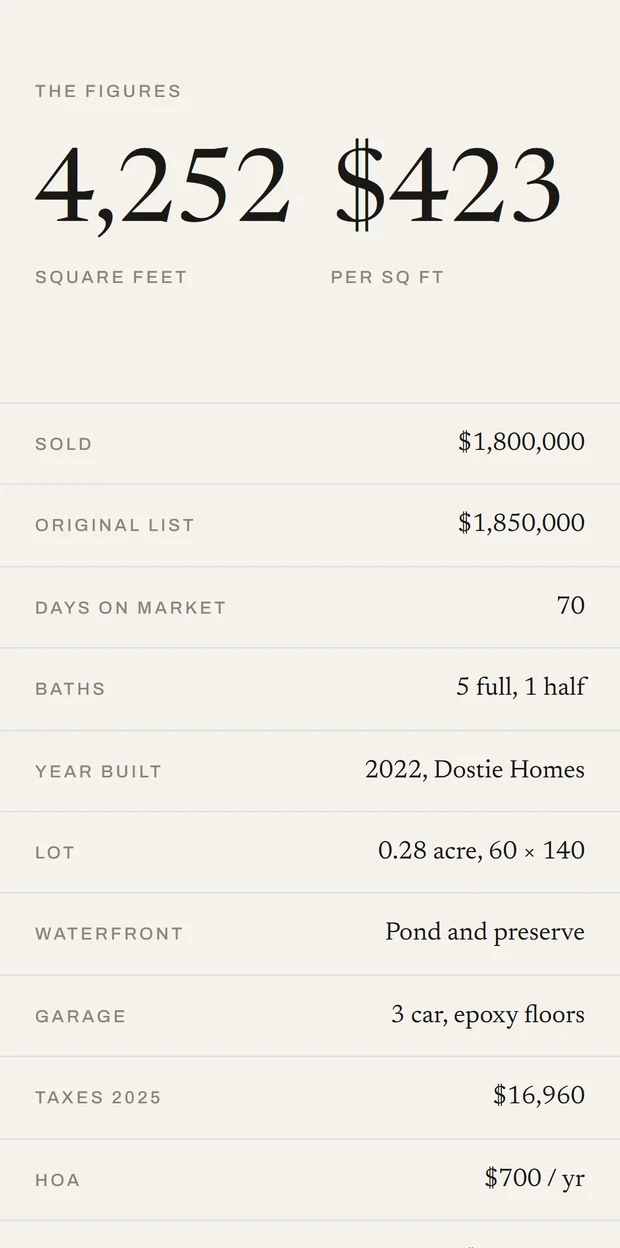
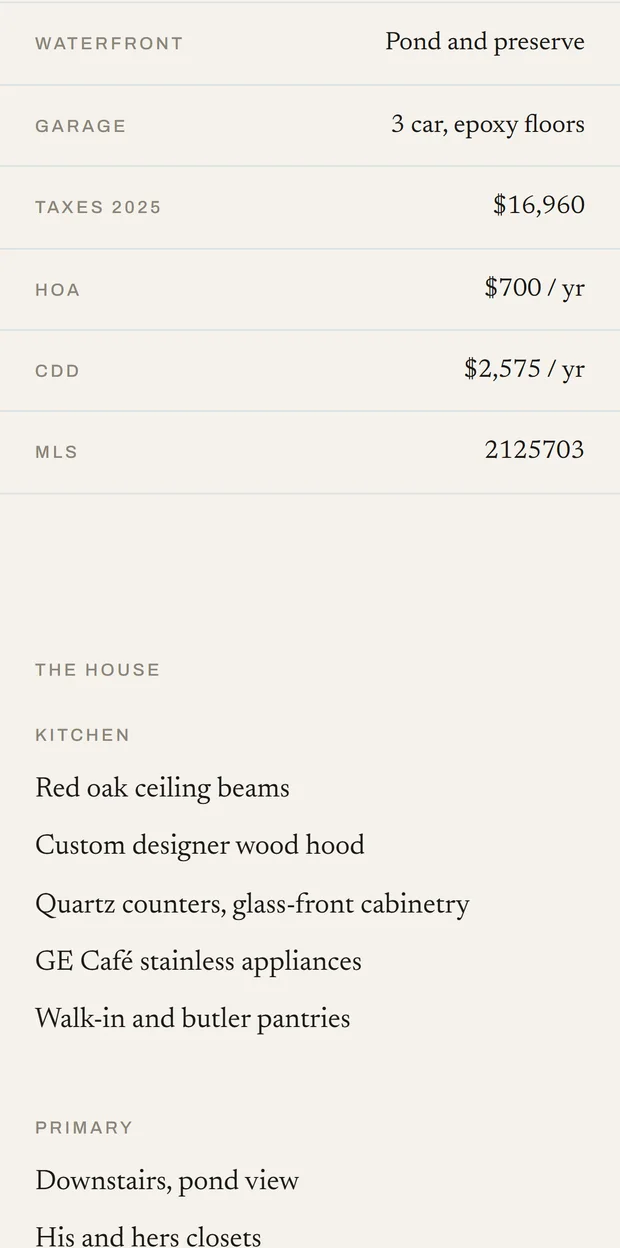
Swap the two-photo hero frame for one mixing a photo with the figures
The middle frame showed the pool and the outdoor kitchen stacked, so it read as
a photo album rather than a guide. It now sits at the seam where the gallery runs
into the figures: an aerial shot of the corner lot, its caption, then 4,252
square feet at $423, the sold price and the original list.

That created a collision. The third frame opened on exactly those headline
numbers, so two consecutive screens would have shown the same figures and looked
like a stutter. The third frame moves from 6000 to 6560, picking up at Waterfront
and running through taxes, HOA, CDD and the MLS number into the house section's
kitchen and primary suite features. Nothing repeats between them now.

The wide panel under the Open house tab pairs the opening screen with the new
aerial frame, since it carries the headline numbers the old stats frame used to.

Alt text rewritten on both changed frames and on the wide panel.

diff --git a/index.html b/index.html
@@ -63,8 +63,8 @@
         <div class="phone">
           <div class="phone-screen">
             <div class="frame"><img src="images/guide-openhouse-home.webp" width="620" height="1248" alt="The guide’s opening screen on a phone: 268 Harper’s Mill Drive over a photo of the home, then the sold price and the bed, bath and square-foot counts." loading="eager" decoding="async"></div>
-            <div class="frame"><img src="images/guide-openhouse-photo.webp" width="620" height="1248" alt="The guide’s gallery on a phone: the screened pool and spa, captioned, with the outdoor kitchen below it." loading="lazy" decoding="async"></div>
-            <div class="frame"><img src="images/guide-openhouse-stats.webp" width="620" height="1248" alt="The guide’s figures table on a phone: 4,252 square feet at $423 per square foot, then sold price, original list, days on market, baths, year built, lot, waterfront, garage, taxes and HOA." loading="lazy" decoding="async"></div>
+            <div class="frame"><img src="images/guide-openhouse-photo.webp" width="620" height="1248" alt="The guide’s gallery running into its figures on a phone: an aerial shot of the corner lot, captioned, then 4,252 square feet at $423 per square foot, the sold price and the original list price." loading="lazy" decoding="async"></div>
+            <div class="frame"><img src="images/guide-openhouse-stats.webp" width="620" height="1248" alt="The guide’s detail rows on a phone: waterfront, garage, taxes, HOA, CDD and MLS number, then the house section listing kitchen and primary suite features." loading="lazy" decoding="async"></div>
           </div>
           </div>
         </div>

diff --git a/script.js b/script.js
@@ -86,7 +86,7 @@ document.addEventListener('DOMContentLoaded',function(){
   // examples: tab switcher
   var EXAMPLES=[
     {visual:'guide-openhouse-wide.webp',
-     alt:'The 268 Harper’s Mill Drive guide on two phones: the address over a photo of the home, and the figures table listing square footage, price per square foot, sold price, days on market and more.',
+     alt:'The 268 Harper’s Mill Drive guide on two phones: the address over a photo of the home, and an aerial shot above the square footage and price per square foot.',
      inGuide:['The line','Gallery','The figures','The house','The area'],
      result:'The paper flyer buyers leave in the car.'},
     {visual:'guide-aftercare-wide.webp',
